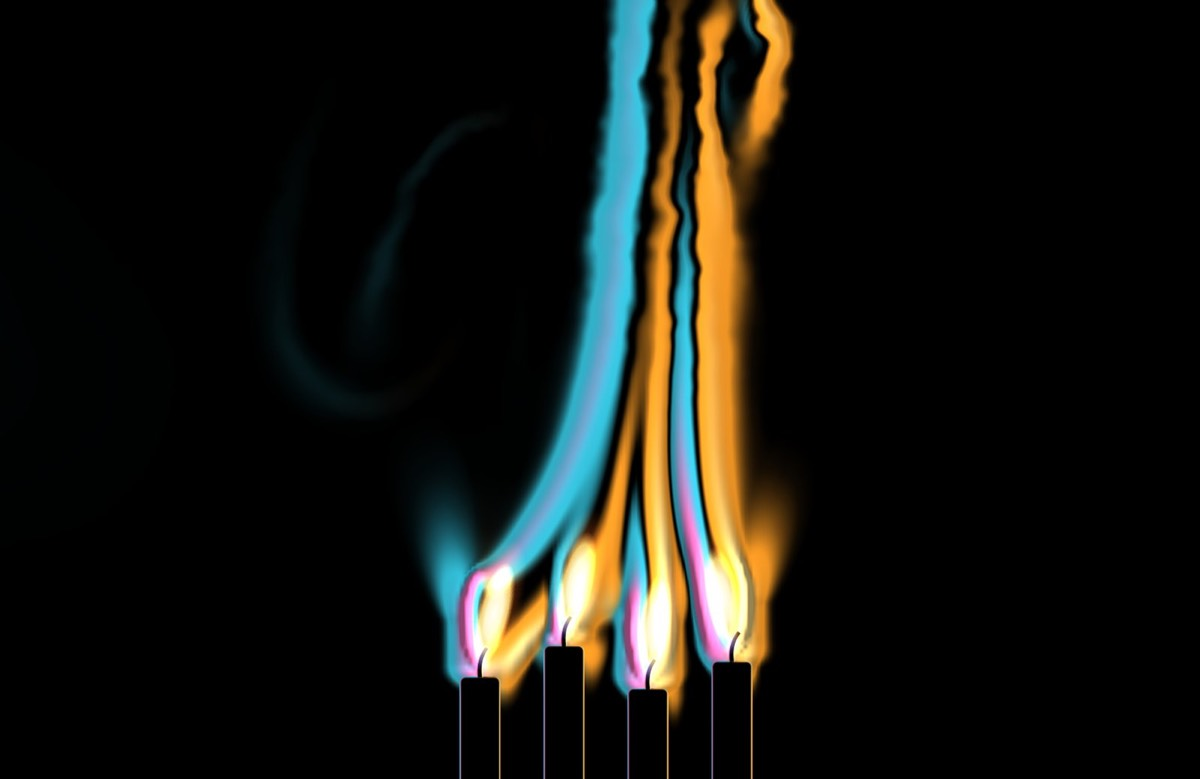
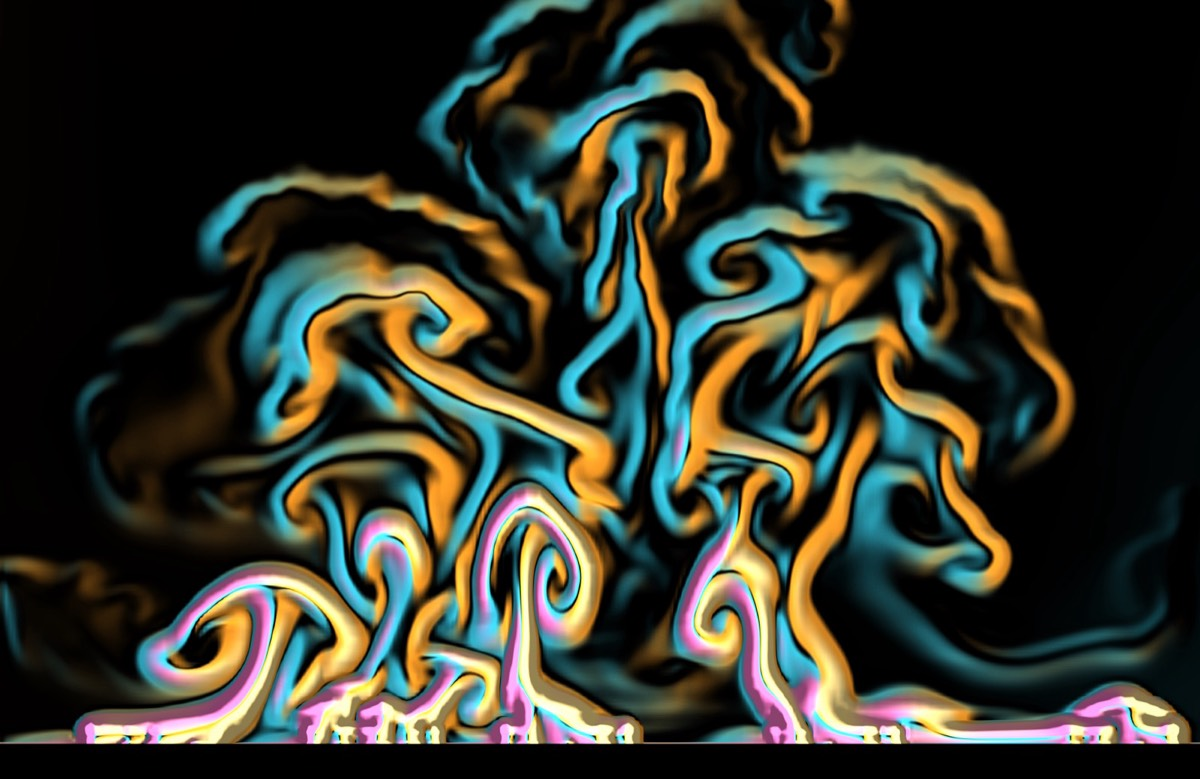
README: Schlieren's pictures in Warm air, its new standard heat
The hero still, the Settings and menu picture and the moving picture now show
Warm air off a radiator at the standard settings, 40 s in, when its plumes fill
the frame. The four candles stay in the table as another look.

diff --git a/docs/README.md b/docs/README.md
@@ -50,7 +50,7 @@ One file per wallpaper, recording what the code can't: how each scene works, why
 The README's screenshots live in `docs/images` as 1600-pixel JPEGs of the wallpaper alone. All of them were rendered afresh on 2026-09-29 (except `the-moon-vs-dial-a-moon.jpg`, a check against NASA's frames) by the snapshot test at 2x Retina, which is the same pixels without switching the desktop or touching settings. For example: `SNAPSHOT_DEFAULTS="galaxy.kind=Whirlpool" SNAPSHOT_SCENE=Galaxy swift test -c release -Xswiftc -enable-testing`, with `SNAPSHOT_APPEARANCE=light|dark` for the two looks; the settings for most are in each wallpaper's doc. Random ones were picked from three or four rolls. A few need more than the test gives them:
 - **Live data** comes from the app's caches in `~/Library/Caches/com.dtanquary.atrium`, since the test never fetches: seed the Sun's SDO frames and Wind's satellite tiles for today first (their URLs are in `SunImages` and `Imagery`). Earth from Orbit's night side needs a place where it's night: `SNAPSHOT_DEFAULTS="latitude=25,longitude=78"`.
 - **Rain on Glass's frost** bakes off the main thread and never lands in the synchronous render test. It needs a throwaway `async` copy of the test that yields with `Task.sleep` between frames (spinning the run loop isn't enough: the test holds the main queue).
-- **Moving pictures** (`<slug>.webp`, the first of each wallpaper's in the README) are the website's 12 s preview loops (`site/media.sh previews`, in the looks its `PREVIEWS` list sets) as animated WebP, 640 wide at 15 fps, a third to a quarter the size of a GIF of the same loop: `site/media.sh preview-fish-tank`, then `ffmpeg -i site/public/media/preview-fish-tank.hevc.mp4 -vf fps=15,scale=640:-2:flags=lanczos f/%03d.png && img2webp -loop 0 -lossy -q 70 -m 4 -d 67 f/*.png -o docs/images/fish-tank.webp`. Being loops, they repeat without a jump. (Pixel Window Seat has four more, three of its Earth orbit and one of its train, which aren't on the website: [its doc](pixel-window-seat.md) has their recipes.) Aurora, Deep Space Tour, Flowing Gradient, Galaxy, Lava Lamp, Meander, Nebula, Solar System Tour and Weather broke into blocks as plain WebP, so each of their frames is a keyframe (`-kmin 0 -kmax 1`). Deep Space Tour's zoom over a star field changes every pixel every frame, so it's 10 fps at q50 (`-d 100`), 5 MB; the rest are 16 KB to 3 MB. In a README table each is an `<img width="1600">`, the stills' width: GitHub splits a table's columns by its images' pixel widths, so a plain 640-wide one beside a still gets under a third of the row. The test steps a fixed 30 fps whatever the power settings, so they're always full speed. Below about q70, slow scenes lose frames (WebP merges ones that look the same) and step instead of flowing. WebP redraws only what changed, so smooth scenes (gradients, soft clouds, a slow zoom) break into blocks within seconds: give those a keyframe every frame (`-kmin 0 -kmax 1`), and look at the result 9 s in. A scene that changes every pixel every frame (film grain, a zoom over a star field) comes out many MB, so lower its frame rate or use a still.
+- **Moving pictures** (`<slug>.webp`, the first of each wallpaper's in the README) are the website's 12 s preview loops (`site/media.sh previews`, in the looks its `PREVIEWS` list sets) as animated WebP, 640 wide at 15 fps, a third to a quarter the size of a GIF of the same loop: `site/media.sh preview-fish-tank`, then `ffmpeg -i site/public/media/preview-fish-tank.hevc.mp4 -vf fps=15,scale=640:-2:flags=lanczos f/%03d.png && img2webp -loop 0 -lossy -q 70 -m 4 -d 67 f/*.png -o docs/images/fish-tank.webp`. Being loops, they repeat without a jump. (Pixel Window Seat has four more, three of its Earth orbit and one of its train, which aren't on the website: [its doc](pixel-window-seat.md) has their recipes.) Aurora, Deep Space Tour, Flowing Gradient, Galaxy, Lava Lamp, Meander, Nebula, Solar System Tour and Weather broke into blocks as plain WebP, so each of their frames is a keyframe (`-kmin 0 -kmax 1`). Deep Space Tour's zoom over a star field changes every pixel every frame, so it's 10 fps at q50 (`-d 100`), 5 MB, and Schlieren's Warm air, turbulent across the frame, is the same with a keyframe every frame, 2.3 MB; the rest are 16 KB to 3 MB. In a README table each is an `<img width="1600">`, the stills' width: GitHub splits a table's columns by its images' pixel widths, so a plain 640-wide one beside a still gets under a third of the row. The test steps a fixed 30 fps whatever the power settings, so they're always full speed. Below about q70, slow scenes lose frames (WebP merges ones that look the same) and step instead of flowing. WebP redraws only what changed, so smooth scenes (gradients, soft clouds, a slow zoom) break into blocks within seconds: give those a keyframe every frame (`-kmin 0 -kmax 1`), and look at the result 9 s in. A scene that changes every pixel every frame (film grain, a zoom over a star field) comes out many MB, so lower its frame rate or use a still.
 - **Settings** screenshots (`settings-*.jpg`) are `SETTINGS_SHOT="<page>" swift test --filter settingsWindow`, saved as JPEG. The test's own defaults domain is `swiftpm-testing-helper`; clear anything a throwaway test left there.
 
 - **Peg Board's** are drawn at the size they are shown at (`PEGBOARD_STILL`, in [its doc](peg-board.md#checking-it)): its sheet is dotted with holes, and a still reduced afterwards shows a weave.

diff --git a/docs/schlieren.md b/docs/schlieren.md
@@ -2,15 +2,15 @@
 
 Rising heat as a colour schlieren camera sees it, after the photos of Gary Settles (Penn State), Andrew Davidhazy (RIT) and Ted Kinsman (RIT). Warm air is thinner than the air around it, so it bends light slightly. A schlieren camera focuses its light source onto a colour filter, the "cutoff", so each point of the picture takes whatever colour the filter has where that point's rays were bent to. The two edges of a plume bend light opposite ways, so they come out in opposite colours, and the air the heat hasn't touched shows the filter's centre. Candles, a mug of coffee or a radiator heat a simulated room. The flames are drawn in their own colour on top, since they give off their own light, and the objects are black silhouettes, each edge wrapped in a thin coloured fringe.
 
-![Candles in the dark field, Candlelight palette](images/schlieren.jpg)
+![Warm air off a radiator in the dark field, Candlelight palette](images/schlieren.jpg)
 
 - **Files:** `Sources/Atrium/Schlieren.swift` holds the `Schlieren` scene, its shader, the filter table and `AirSim`. `frameTime` comes from Fireflies.swift, and `rgb` and `paint` come from Fireflies.swift and Scenes.swift.
 - **Entry:** `@MainActor func schlieren(size:)`. Registry entry: icon `heat.waves`, tint `.pink`, palettes under `schlieren.palette`.
 - **Kind:** a CPU fluid simulation feeding an `SKMutableTexture`, and one full-screen shader sprite that turns it into a schlieren image, plus additive sprites for the flames.
 
-| Rainbow filter, Spectrum palette (after Davidhazy) | Knife edge, Pastel, Light Mode (after Kinsman) |
-|---|---|
-| ![Rainbow](images/schlieren-rainbow.jpg) | ![Knife edge in Light Mode](images/schlieren-light.jpg) |
+| Candles in the dark field, Candlelight palette | Rainbow filter, Spectrum palette (after Davidhazy) | Knife edge, Pastel, Light Mode (after Kinsman) |
+|---|---|---|
+| ![Candles](images/schlieren-candles.jpg) | ![Rainbow](images/schlieren-rainbow.jpg) | ![Knife edge in Light Mode](images/schlieren-light.jpg) |
 
 ## How it works
 1. **Optics.**
@@ -129,4 +129,10 @@ Two research agents, 2026-09-28. The notes are summarised here. The photos (30, 
 - **Bullseye filter:** colour by the size of the bend alone, so both edges match.
 
 ## Checking it
-`SNAPSHOT_SCENE="Schlieren" SNAPSHOT_SECONDS=14 SNAPSHOT_DEFAULTS="schlieren.palette=Candlelight,schlieren.filter=0,schlieren.source=0" swift test -c release -Xswiftc -enable-testing`. Filters and sources are indexed in the order above. Under about 6 s the plumes are still settling. Check both looks with `SNAPSHOT_APPEARANCE=light|dark`.
+`SNAPSHOT_SCENE="Schlieren" SNAPSHOT_SECONDS=40 SNAPSHOT_DEFAULTS="schlieren.palette=Candlelight,schlieren.filter=0,schlieren.source=3" swift test -c release -Xswiftc -enable-testing --filter everySceneRenders`. Filters and sources are indexed in the order above (source 3 is Warm air, the standard; 0 is Candles). Check both looks with `SNAPSHOT_APPEARANCE=light|dark`.
+- **Settling.** Candles settle in about 6 s. Warm air takes longer: its plumes are low mushrooms at 6 s, reach mid-frame by 14 s and only fill the frame, turbulent to the top, from about 40 s on, which is how it looks for most of the time it runs.
+- **The pictures** (retaken 2026-10-14, when Warm air became the standard), all with the palette pinned to Candlelight and the dark field:
+  - `images/schlieren.jpg` (the hero, cut to `Resources/preview-schlieren.jpg` and the site's card): `schlieren.source=3`, 40 s.
+  - The site's loop and the README's `schlieren.webp`: the same, 40 s in, as `site/media.sh`'s `PREVIEWS` line says. The WebP is 10 fps at q50 with a keyframe every frame (`fps=10`, `-kmin 0 -kmax 1 -q 50 -d 100`): at 15 fps q70 it came to 4.2 MB, and without keyframes the dim turbulence broke into blocks.
+  - `images/schlieren-candles.jpg`: `schlieren.source=0`, 14 s.
+  - `images/schlieren-rainbow.jpg` and `images/schlieren-light.jpg` are from 2026-09-29 (one Candle, Rainbow, Spectrum; a Mug, Knife edge, Pastel in Light Mode).

diff --git a/README.md b/README.md
@@ -226,11 +226,13 @@ Wax that rises up the middle as round heads on stems that pinch off, sticks to t
 | Coral in Dark Mode | Teal, in Light Mode |
 
 #### Schlieren
-Rising heat as a color schlieren camera sees it, after the photos of Gary Settles, Andrew Davidhazy and Ted Kinsman. Warm air bends light, and the camera turns each bend into a color, so the two edges of a candle's plume glow in opposite colors as it rises, sways and curls into turbulence, in slow motion. It uses a real fluid simulation of the room's air. Pick candles, one taper, a mug of coffee or a radiator; a dark-field, rainbow, banded or knife-edge filter; and one of eight palettes, with the lab's round mirror as an option.
+Rising heat as a color schlieren camera sees it, after the photos of Gary Settles, Andrew Davidhazy and Ted Kinsman. Warm air bends light, and the camera turns each bend into a color, so the two edges of every plume glow in opposite colors as warm air rises off a radiator, sways and curls into turbulence, in slow motion. It uses a real fluid simulation of the room's air. Settings swaps the radiator for four birthday candles, one taper or a mug of coffee, offers a dark-field, rainbow, banded or knife-edge filter and one of eight palettes, and adds the lab's round mirror as an option.
 
-| <img src="docs/images/schlieren.webp" alt="Schlieren, candles in the dark field, moving" width="1600"> | ![Schlieren, one candle through a rainbow filter after Davidhazy](docs/images/schlieren-rainbow.jpg) |
+| <img src="docs/images/schlieren.webp" alt="Schlieren, warm air off a radiator in the dark field, moving" width="1600"> | ![Schlieren, four candles in the dark field](docs/images/schlieren-candles.jpg) |
 |---|---|
-| Candles glowing in the dark field | One candle through the rainbow filter, after Davidhazy |
+| Warm air rising off a radiator, glowing in the dark field | Four candles in the dark field |
+| ![Schlieren, one candle through a rainbow filter after Davidhazy](docs/images/schlieren-rainbow.jpg) | ![Schlieren, a mug of coffee through the knife edge in Light Mode, after Kinsman](docs/images/schlieren-light.jpg) |
+| One candle through the rainbow filter, after Davidhazy | A mug of coffee through the knife edge in Light Mode, after Kinsman |
 
 #### Turing Patterns
 Reaction–diffusion, the chemistry Alan Turing proposed for how animals get their spots and stripes. Patterns grow from a few glowing seeds, then slowly drift from coral to dividing spots to a honeycomb to fingerprint stripes and round again, in six jewel-tone palettes. Patches keep dissolving and growing back in, so it never stops moving, or it can swirl on a slow current instead.
